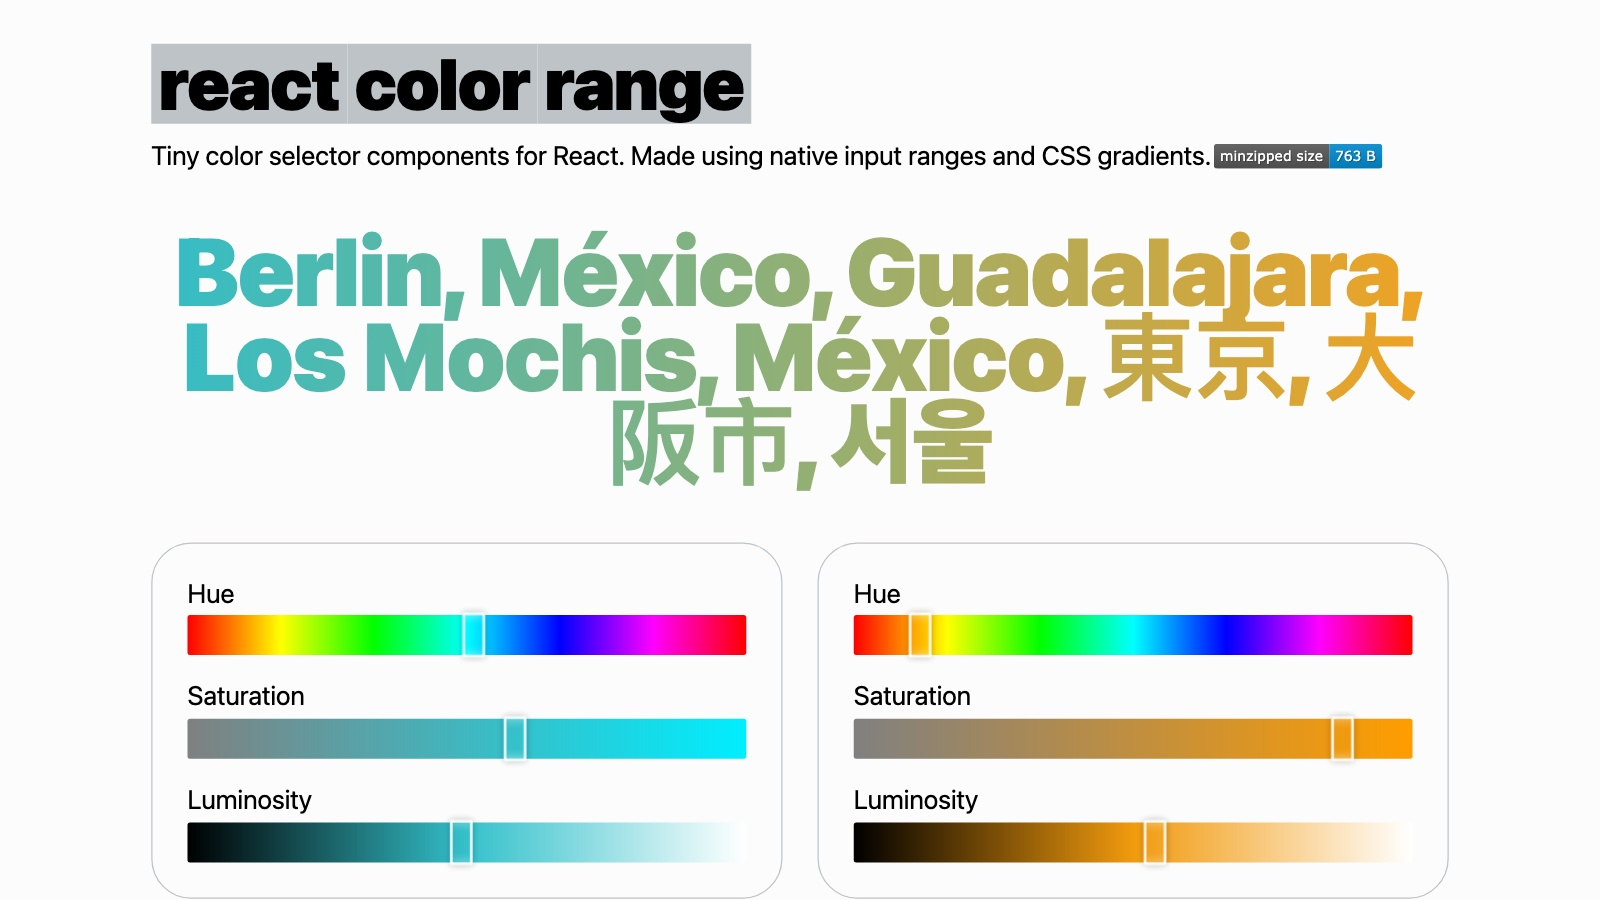
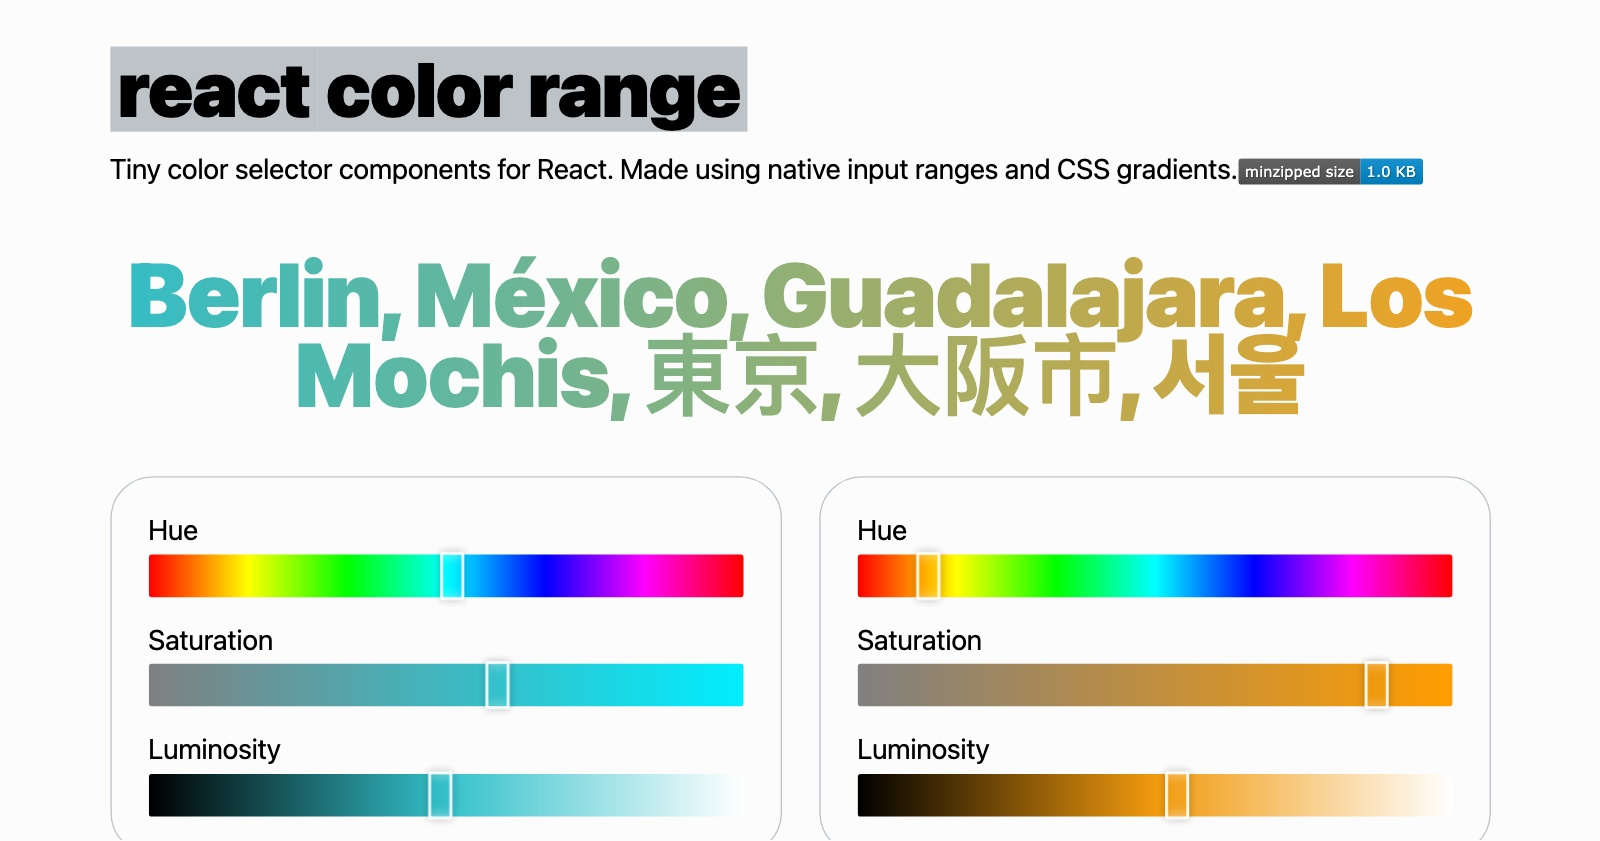
v0.2.3

diff --git a/website/src/app.jsx b/website/src/app.jsx
@@ -50,14 +50,15 @@ function App() {
       <Text>
         Tiny color selector components for React. Made using native input ranges
         and CSS gradients.
-        <img
+        <a
+          href="https://bundlephobia.com/package/react-color-range@latest"
           style={{
             display: 'inline-block',
-            verticalAlign: `middle`,
-            top: -2,
-            marginLeft: 2,
+            verticalAlign: 'middle',
+            height: 32,
+            width: 140,
+            background: `url(https://badgen.net/bundlephobia/minzip/react-color-range) no-repeat center`,
           }}
-          src="https://badgen.net/bundlephobia/minzip/react-color-range"
         />
       </Text>
       <Space h={1} />
@@ -71,7 +72,7 @@ function App() {
         }}
       >
         <TextGradient
-          text={`Berlin, México, Guadalajara, Los Mochis, México, 東京, 大阪市, 서울`}
+          text={`Berlin, México, Guadalajara, Los Mochis, 東京, 大阪市, 서울`}
           fromColor={color}
           toColor={colorB}
           direction="right"

diff --git a/website/src/TextGradient.jsx b/website/src/TextGradient.jsx
@@ -3,7 +3,7 @@
 import { useState, useEffect } from 'react';
 
 export function TextGradient({ text, ...other }) {
-  const [isWebkit, isWebkitSet] = useState(null);
+  const [isWebkit, isWebkitSet] = useState(true);
 
   useEffect(() => {
     const isWebkit = 'WebkitTextFillColor' in document.documentElement.style;
@@ -12,10 +12,8 @@ export function TextGradient({ text, ...other }) {
 
   if (isWebkit === true) {
     return <TextGradientWebkit text={text} {...other} />;
-  } else if (isWebkit === false) {
-    return <TextGradientNonWebkit text={text} {...other} />;
   } else {
-    return <span style={{ color: other.fromColor }}>{text}</span>;
+    return <TextGradientNonWebkit text={text} {...other} />;
   }
 }
 

diff --git a/website/public/index.html b/website/public/index.html
@@ -23,14 +23,8 @@
       content="Tiny color input for React, made with native input ranges."
     />
 
-    <link
-      rel="canonical"
-      href="https://javier.xyz/react-color-range-website/"
-    />
-    <meta
-      property="og:url"
-      content="https://javier.xyz/react-color-range-website/"
-    />
+    <link rel="canonical" href="https://javier.xyz/react-color-range/" />
+    <meta property="og:url" content="https://javier.xyz/react-color-range/" />
 
     <meta property="og:og:image:width" content="1600" />
     <meta property="og:image:height" content="900" />

diff --git a/index.js b/index.js
@@ -17,7 +17,7 @@ const props = {
   },
 };
 
-function Selector({ value, type, onChange, style, ...other }) {
+function Selector({ value = '', type, onChange, style, ...other }) {
   const { h, s, l } = value.includes(`#`) ? hexToHsl(value) : parseHsl(value);
   let hsl = { h, s, l };
 

diff --git a/README.md b/README.md
@@ -37,15 +37,16 @@ import 'react-color-range/style.css';
 />
 ```
 
-Each of the three components accept the following props:
+Each of the three components accepts the following props:
 
-- `value`: Either a 6 character hex color (example: `#FFFFFF`) or hsl color
-  expressed with degrees for hue and percentages for saturation and luminosity
-  (example: `hsl(0, 100%, 50%)`). Please note that using hsl colors as the
-  source is preferred to prevent color resolution lost on high and low
+- `value`: Either a hex color (example: `#FFFFFF`) or hsl color expressed with
+  degrees for hue and percentages for saturation and luminosity separated by
+  commas (example: `hsl(0, 100%, 50%)`). Please note that using hsl colors as
+  the source is preferred to prevent color resolution lost on high and low
   luminosities.
 - `onChange`: Function that will return an object when the color is changed.
   - On change response: And object with the following properties:
-    - `hsl`: New hsl color
-    - `hex`: New hex color
-    - `h`, `s`, `l`: components of the hsl color
+    - `hsl`: String. New hsl color
+    - `hex`: String. New hex color
+    - `h`, `s`, `l`: Int. Hue, saturation and luminosity, components of the hsl
+      color

diff --git a/CHANGELOG.md b/CHANGELOG.md
@@ -1,0 +1,7 @@
+# 0.2.3
+
+- Add default `value`.
+
+# 0.1.0
+
+- Initial release
